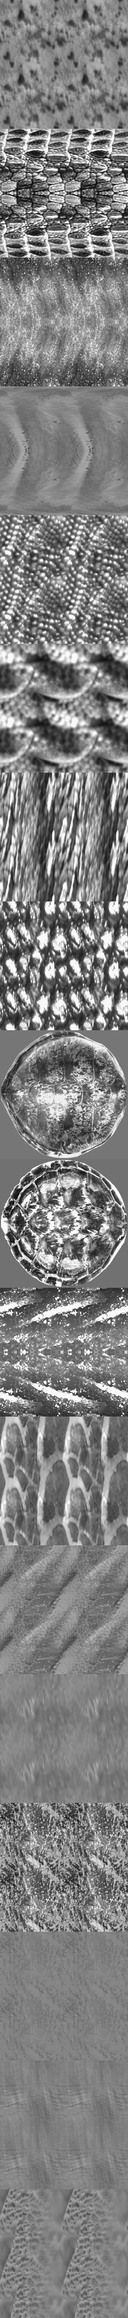
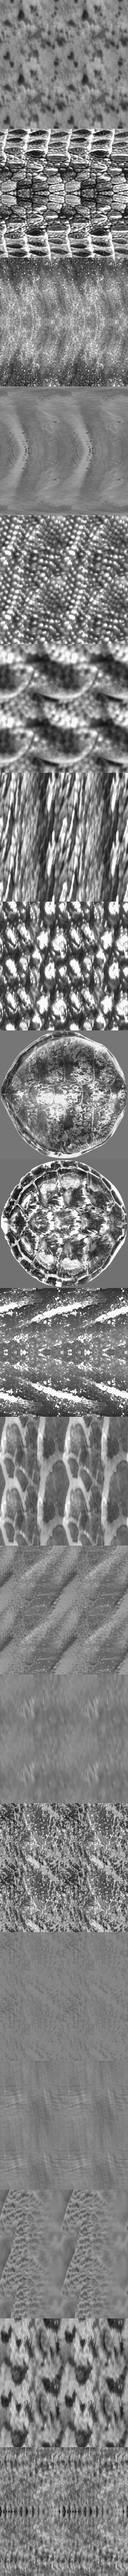
Skins for crabs and starfish (0.162)
A ghost crab's speckled carapace and legs on every crab, a starfish's
spines on arms and disc: every animal now has a photo skin. README
credits regenerated from skins.json.

diff --git a/src/props/shoreLife.ts b/src/props/shoreLife.ts
@@ -18,6 +18,7 @@ import { monthInSeason } from '../seasons'
 import { hasBeach, shoreToWorld, terrainNormal } from '../terrain'
 import { tideMarks } from '../tides'
 import { MeshBuilder } from './builder'
+import { skinBlob, skinCoords, skinMaterial, skinsOn } from './skins'
 import { stormy, type PropContext } from './context'
 import { noise3 } from './noise'
 
@@ -319,7 +320,7 @@ export function shellGeometry(rng: Random, kind: ShellKind): BufferGeometry {
 }
 
 /** A five-armed starfish lying on the sand. */
-export function starfishGeometry(rng: Random): BufferGeometry {
+export function starfishGeometry(rng: Random, skin = false): BufferGeometry {
   const b = new MeshBuilder()
   const color = rng.pick<RGB>([[0.55, 0.16, 0.04], [0.3, 0.07, 0.15], [0.45, 0.25, 0.08]])
   const arm = rng.range(0.05, 0.09)
@@ -328,14 +329,15 @@ export function starfishGeometry(rng: Random): BufferGeometry {
     const az = (i / 5) * Math.PI * 2 + 0.15 * Math.sin(i * 3 + twist * 9)
     const dir = new Vector3(Math.cos(az), 0, Math.sin(az))
     const path = [0, 1, 2, 3, 4, 5].map(k => dir.clone().multiplyScalar((arm * k) / 5).setY(0.008 + 0.006 * Math.sin((k / 5) * Math.PI)))
-    b.tube(path, t => arm * 0.2 * (1 - 0.8 * t), (t, a) => shade(color, 0.85 + 0.25 * Math.sin(a * 5 + t * 30)), 6)
+    // Spines from a photo (props/skins.ts) in place of the ridged shading.
+    b.tube(path, t => arm * 0.2 * (1 - 0.8 * t), (t, a) => shade(color, skin ? 1 : 0.85 + 0.25 * Math.sin(a * 5 + t * 30)), 6, skin ? skinCoords('starfish', arm * 2) : undefined)
   }
-  b.blob(new Vector3(0, 0.01, 0), new Vector3(arm * 0.25, arm * 0.14, arm * 0.25), () => color, () => 1, 3)
+  b.blob(new Vector3(0, 0.01, 0), new Vector3(arm * 0.25, arm * 0.14, arm * 0.25), () => color, () => 1, 3, undefined, skin ? skinBlob('starfish', arm * 2, 'top') : undefined)
   return b.build()
 }
 
 /** A crab standing on its legs. */
-export function crabGeometry(rng: Random, kind: CrabKind, sand: RGB): BufferGeometry {
+export function crabGeometry(rng: Random, kind: CrabKind, sand: RGB, skin = false): BufferGeometry {
   const b = new MeshBuilder()
   const width = kind === 'ghost' ? rng.range(0.04, 0.055) : kind === 'shore' ? rng.range(0.05, 0.075) : rng.range(0.02, 0.03)
   const color: RGB =
@@ -362,7 +364,10 @@ export function crabGeometry(rng: Random, kind: CrabKind, sand: RGB): BufferGeom
     new Vector3(width * (kind === 'ghost' ? 0.42 : 0.38), width * 0.22, width * 0.5),
     n => shade(color, 0.75 + 0.35 * Math.max(0, n.y)),
     n => (kind === 'ghost' ? 1 + 0.12 * (n.x * n.x * n.z * n.z * 16) : 1),
-    4
+    4,
+    undefined,
+    // Carapace grain from a photo (props/skins.ts), seen from above.
+    skin ? skinBlob('crab', width, 'top') : undefined
   )
   // Four walking legs a side: out, up to the knee, down to the sand.
   for (const side of [-1, 1]) {
@@ -373,7 +378,7 @@ export function crabGeometry(rng: Random, kind: CrabKind, sand: RGB): BufferGeom
       const root = new Vector3(along, lift, side * width * 0.4)
       const knee = new Vector3(along + Math.sin(sweep) * spread * 0.55, lift + width * 0.35, side * (width * 0.4 + Math.cos(sweep) * spread * 0.55))
       const tip = new Vector3(along + Math.sin(sweep) * spread, 0, side * (width * 0.4 + Math.cos(sweep) * spread))
-      b.tube([root, knee, tip], t => width * 0.055 * (1 - 0.6 * t), () => shade(color, 0.9), 5)
+      b.tube([root, knee, tip], t => width * 0.055 * (1 - 0.6 * t), () => shade(color, 0.9), 5, skin ? skinCoords('crab', width) : undefined)
     }
     // Claws in front.
     const claw = kind === 'ghost' && side === 1 ? 1.3 : 1
@@ -770,13 +775,16 @@ export function createShoreLife(ctx: PropContext): InstancedMesh[] {
         )
       }
     }
+    // Photo skins (props/skins.ts) for crabs and starfish; others unchanged.
+    if (skins) skinMaterial(m)
     return m
   }
+  const skins = skinsOn(params.overrides)
 
   // Shells and starfish: strewn on the wrack line and the lower beach.
   {
     const geometries = life.shells.flatMap(kind => [0, 1].map(() => shellGeometry(rng, kind)))
-    const starfish = life.starfish > 0 ? geometries.push(starfishGeometry(rng)) - 1 : -1
+    const starfish = life.starfish > 0 ? geometries.push(starfishGeometry(rng, skins)) - 1 : -1
     const pieces: Piece[] = []
     for (let i = 0; i < life.shellCount; i++) {
       const u = rng.chance(0.6) ? highTide + rng.normal(0, 0.8) : rng.range(0.3, highTide + 2)
@@ -789,7 +797,7 @@ export function createShoreLife(ctx: PropContext): InstancedMesh[] {
 
   // Crabs and burrows.
   if (life.crab != null) {
-    const crabs = [0, 1].map(() => crabGeometry(rng, life.crab!, sand))
+    const crabs = [0, 1].map(() => crabGeometry(rng, life.crab!, sand, skins))
     const pieces: Piece[] = []
     for (let i = 0; i < life.crabs * 4 && pieces.length < life.crabs; i++) {
       // Ghost crabs forage down to the swash; shore crabs stay near the

diff --git a/test/skins.test.ts b/test/skins.test.ts
@@ -4,6 +4,7 @@ import { describe, expect, it } from 'vitest'
 import { gull, restingGull } from '../src/props/birds'
 import { marineGeometry } from '../src/props/marine'
 import { migratoryGeometry } from '../src/props/migratory'
+import { crabGeometry, starfishGeometry } from '../src/props/shoreLife'
 import { pinniped, swimmingHead } from '../src/props/pinnipeds'
 import { SKIN_IDS, skinCoords, skinTile } from '../src/props/skins'
 import { crocodileGeometry, hippoGeometry, lizardGeometry, monkeyGeometry, turtleGeometry } from '../src/props/wildlife'
@@ -31,7 +32,7 @@ describe('photo skins', () => {
     expect(skinCoords('harbour-seal', length * 2)(0, 0, 0.3, tile[0])[0]).toBeCloseTo(0.5, 9)
   })
 
-  it('give every seal, head, lizard, turtle, hippo, monkey, marine animal and bird a skin only when asked', () => {
+  it('give every seal, head, lizard, turtle, hippo, monkey, marine animal, bird, crab and starfish a skin only when asked', () => {
     expect(pinniped(new Random('s'), 'seal', 'lying', 0, false).getAttribute('skin')).toBeUndefined()
     for (const kind of ['seal', 'sea-lion', 'fur-seal', 'elephant-seal'] as const) {
       expect(pinniped(new Random('s'), kind, 'lying', 0, true).getAttribute('skin')).toBeDefined()
@@ -55,6 +56,9 @@ describe('photo skins', () => {
     for (const bird of [gull(0.3, 0.2, false, true), restingGull(true, true), migratoryGeometry('goose', false, true), migratoryGeometry('duck', false, true), migratoryGeometry('flamingo', true, true)]) {
       expect(bird.getAttribute('skin')).toBeDefined()
     }
+    for (const kind of ['ghost', 'shore', 'hermit'] as const) expect(crabGeometry(new Random('c'), kind, [0.7, 0.65, 0.55], true).getAttribute('skin')).toBeDefined()
+    expect(starfishGeometry(new Random('s'), true).getAttribute('skin')).toBeDefined()
+    expect(starfishGeometry(new Random('s'), false).getAttribute('skin')).toBeUndefined()
     const skinned = pinniped(new Random('s'), 'seal', 'lying', 0, true)
     const plain = pinniped(new Random('s'), 'seal', 'lying', 0, false)
     const skin = skinned.getAttribute('skin') as BufferAttribute

diff --git a/changelog.md b/changelog.md
@@ -166,3 +166,4 @@ Informal versions (no git tags); each is a milestone. Dates are 2026 (MM-DD).
 | 0.159 | 11-13 | **Skins for turtles, hippos and monkeys:** whole carapaces from above (Australian Museum specimens; `mode: "whole"` in the bake, `skinWhole` mapping) on green, loggerhead and olive ridley shells, a radiating tortoiseshell on hawksbills, the ridged, flecked hide on leatherbacks, flipper scales on every turtle's head and flippers; a hippo's pores and folds; one monkey fur (a vervet's arm) on macaques, capuchins and vervets. The bake renormalises after clipping. Atlas 14 layers, 334 kB. 0 params change |
 | 0.160 | 11-13 | **Skins for whales, dolphins and swordfish:** a breaching humpback's throat pleats, mottling and scars; dolphins and orcas a faint mottle from the same photo (no close, usable dolphin photo found; their skin is smooth); a swordfish specimen's fine lines. Bodies only, fins and flukes plain. `marineGeometry()` builds one for previews and tests. Atlas 17 layers, 395 kB. 0 params change |
 | 0.161 | 11-13 | **Feathers on every bird:** gulls (and the colony's), penguins, geese, ducks and flamingos get a faint feather texture from an emperor goose's breast (the bake's new `local` high-pass keeps feather edges, not the goose's bars, so white birds stay white). Flat wings and tails take skin coordinates per vertex (`setSkin`, `skinFlat`). Atlas 18 layers, 413 kB. 0 params change |
+| 0.162 | 11-13 | **Skins for crabs and starfish**, the last animals: a ghost crab's speckled carapace (projected from above) and legs on ghost, shore and hermit crabs, a common starfish's spines on arms and disc. Every animal now carries a photo skin. Atlas 20 layers, 454 kB. README credits list every CC BY photo from `skins.json`. 0 params change |

diff --git a/knowledge/arch/PROPS.md b/knowledge/arch/PROPS.md
@@ -126,7 +126,9 @@ pinnipeds, landforms, storm bolts, surf/rock spray, cloud events (`skyEvents.ts`
   Bodies only; fins and flukes plain. Birds (0.161): one feather layer (an emperor goose's
   scalloped breast, `local` high-pass so only feather-sized detail stays, faint) on gulls (also the
   colony's), penguins, geese, ducks and flamingos: bodies and necks wrapped, flat wings and tails
-  through `MeshBuilder.setSkin` and `skinFlat` (x along, distance out across).
+  through `MeshBuilder.setSkin` and `skinFlat` (x along, distance out across). Crabs and starfish
+  (0.162): a ghost crab's speckled carapace (from above) and legs on every crab (not the hermit's
+  borrowed shell), a common starfish's spines on arms and disc. Every animal now has a skin.
 - **Sea ice** (`seaIce.ts`, `props/seaIce.ts`, 0.114, plans/SEA_ICE.md): `pickSeaIce` on its own stream gives `params.seaIce`
   (`edge`, `cover`, `snow`, `melt`, `thin`, `rubble`, `lead`, `origin`). A sheet (a polar-grid wedge at `ICE_FREEBOARD`, curved like
   the sea, with `off` per vertex, the m from today's water) hides the ocean, drawn with a polygon offset as 0.18 m is

diff --git a/README.md b/README.md
@@ -80,3 +80,5 @@ and daily at 00:05 UTC with fresh `latest*.jpg`. Enable it under
   - "Chelonia mydas (AM LH858-7).jpg" by Australian Museum (CC BY 4.0, [source](https://commons.wikimedia.org/wiki/File:Chelonia_mydas_(AM_LH858-7).jpg))
   - "Chelonia mydas (AM LH645-5).jpg" by Australian Museum (CC BY 4.0, [source](https://commons.wikimedia.org/wiki/File:Chelonia_mydas_(AM_LH645-5).jpg))
   - "Shiny skin.jpg" by Emran Kassim (CC BY 2.0, [source](https://commons.wikimedia.org/wiki/File:Shiny_skin.jpg))
+  - "Atlantic Ghost Crab - Ocypode quadrata, Assateague Island National Seashore, Berlin, Maryland (23992149308).jpg" by Judy Gallagher (CC BY 2.0, [source](https://commons.wikimedia.org/wiki/File:Atlantic_Ghost_Crab_-_Ocypode_quadrata,_Assateague_Island_National_Seashore,_Berlin,_Maryland_(23992149308).jpg))
+  - "Asterias rubens 02 Espen Rekdal.jpg" by Espen Rekdal / Espen Rekdal Photography (CC BY 4.0, [source](https://commons.wikimedia.org/wiki/File:Asterias_rubens_02_Espen_Rekdal.jpg))
